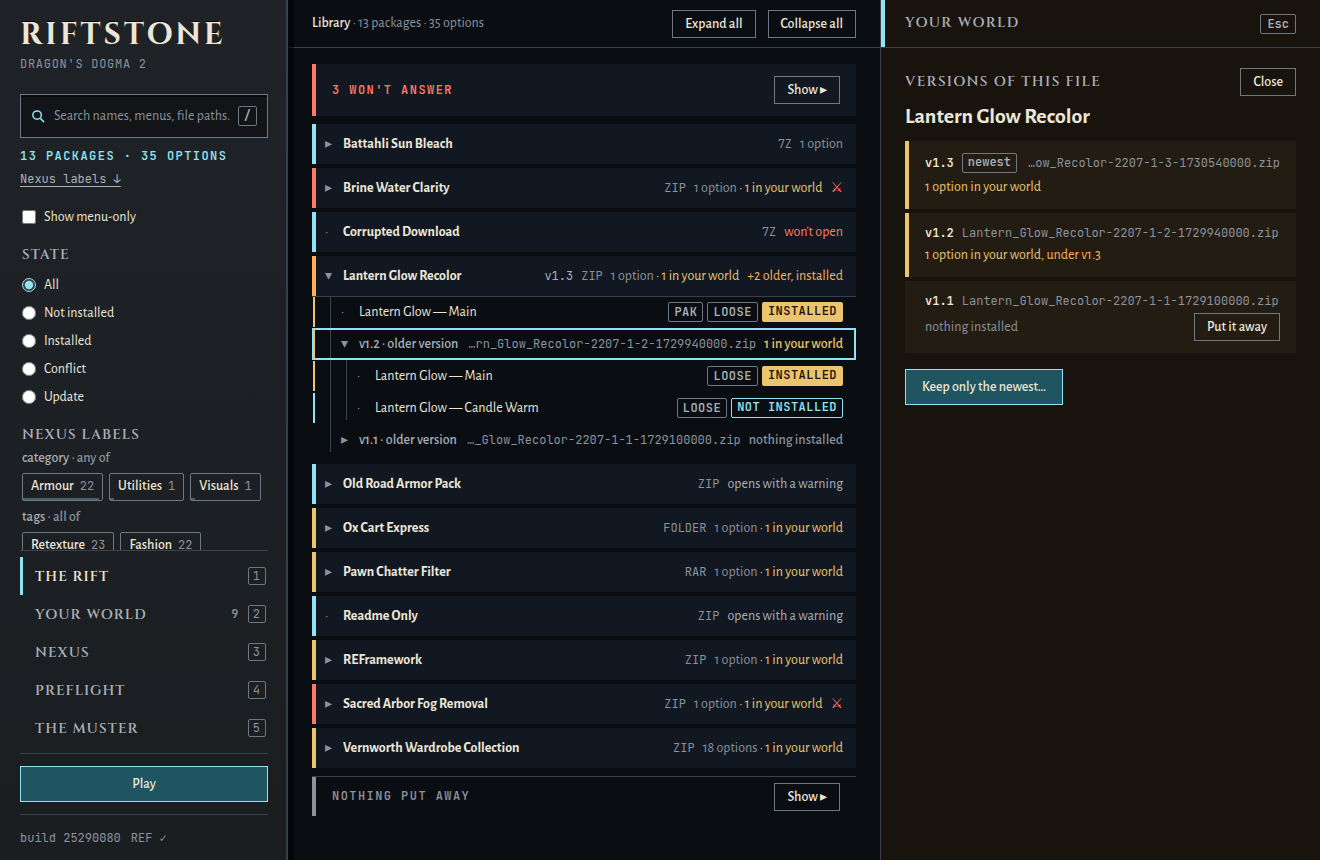
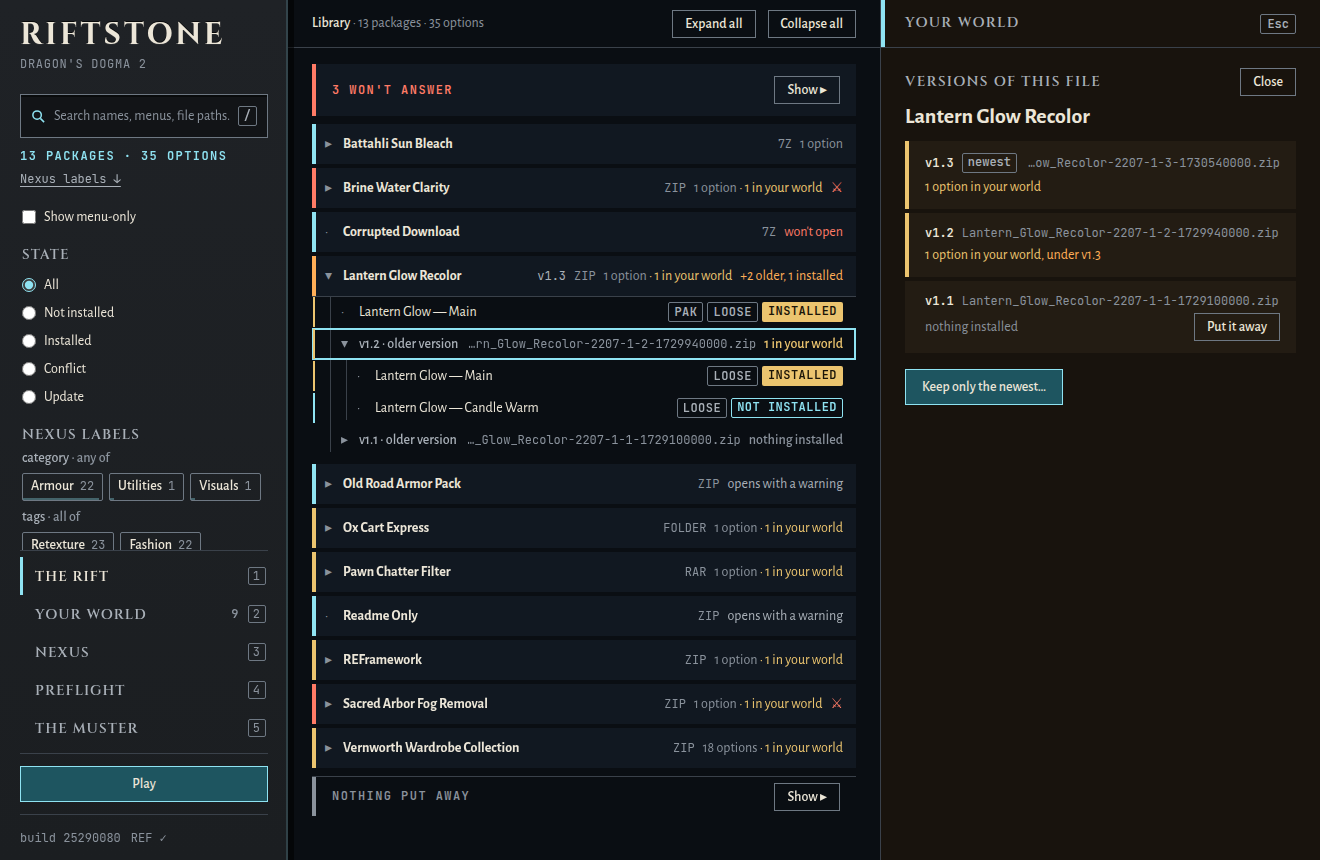
docs(riftstone): the General's round is written down — retry_put_away in the window contract, the family's named-newer order, the kept join, and the versions frame shot again
- WINDOW-CONTRACT: the retry_put_away row and its paragraph; put_away reads the
  family under the turn; the family rule's named-newer order; a check keeps a
  joined group; the version question's two-name floor.
- BUILD-SPEC § v0.5: the review round, each fix and the gates; § rift-nexus
  gains the order.
- CLAUDE.md: the putawayhalf scene, and the question's floor among the known
  limitations.
- README: riftstone-versions.png shot again from the mock (familythree, 1320 ×
  860, 0 page errors, looked at); its alt text reads `+2 older, 1 installed`.

Claude-Session: https://claude.ai/code/session_013U6VVnRmC24Bs8jAfqjsEu

diff --git a/docs/WINDOW-CONTRACT.md b/docs/WINDOW-CONTRACT.md
@@ -647,6 +647,7 @@ fields on the v0.4 Muster types and on `Settings`). The design is #00015 §18.
 | `plan_keep_newest` | `packageId: string` | `KeepNewestPlanView` | What keeping only the newest version of the package's file would uninstall and put away. Any member names the family. Nothing is written. |
 | `keep_newest` | `packageId: string` | `KeepNewestResultView` | Uninstalls the older versions' installs, each by its own uninstall, then puts those versions away; one turn of the deploy lock. `rift://game-changed` when anything was uninstalled, a scan when anything moved. |
 | `put_away` | `packageId: string` | `PutAwayView` | Moves one older version with no installs to the older-versions folder. A scan follows. |
+| `retry_put_away` | `packageId: string` | `PutAwayResultView` | The put-away an install of the package makes, made again (the landing's `Try again`): every member older than it left without installs, the family read under one turn of the deploy lock. Moves what it can; `putAwayFailed` names what would not move. A scan when anything moved. |
 | `get_older_versions` | — | `OlderShelfView` | What the older-versions folder holds. |
 | `bring_back` | `fileName: string` | `BringBackResult` | Moves an item of the older-versions folder back into the mods folder. A scan follows. |
 | `open_older_versions_folder` | — | `void` | Shows the older-versions folder in Explorer, Rust-side; refused before the first put-away makes it. |
@@ -664,8 +665,11 @@ answers is below.
 linked to the same mod and either both links name the same file group (Nexus gives every version
 of one file the same group id; an update check or a download pins it), or one package's last
 check named the other's exact file as its newer file. Packages tied that way, directly or through
-each other, form a family. The newest leads: the latest upload time, then the higher file id; a
-member whose link states neither comes last, by file name. A package with no link, or with an
+each other, form a family. The newest leads. A check that named another member's file as newer is
+the one proof of age the rule holds, so that member comes before the one whose check named it,
+whatever the upload times say (a link pasted as a file URL has a file id and no upload time).
+Among members no check orders: the latest upload time, then the higher file id; a member whose
+link states neither comes last, by file name. A package with no link, or with an
 unpinned link no check named, is in no family. Names and sizes alone never make a family.
 
 **The same option.** An option of one version is the same option as an option of another when
@@ -720,7 +724,10 @@ is outside the library: no scan reads it and no watcher wakes for it. The move:
 
 A move that fails leaves the install standing and the file where it was; `putAwayFailed` says so
 in one sentence that names the files and the reason, and the entry keeps showing the older
-version. A mods folder at the root of a drive has no folder beside it: every put-away there fails
+version. The landing's `Try again` calls `retry_put_away(packageId)` with the installed package:
+the spine works out the set again and answers as the install did, what moved and what would not,
+so a move that worked is never lost to a later one that failed. The window never works out the
+set itself. A mods folder at the root of a drive has no folder beside it: every put-away there fails
 that way. A member newer than the install (an older version installed on purpose) is never put
 away, and an uninstall never puts anything away.
 
@@ -736,7 +743,8 @@ error. An uninstall that fails stops it there: what it uninstalled stays uninsta
 (`rift://game-changed` follows), nothing is put away, and the error says why.
 
 **Put one away.** `put_away(packageId)` moves an older member with no installs to the folder, at
-the player's press, under the deploy lock. It is refused (a `refused` error) for a family's lead,
+the player's press, under the deploy lock; the family is read under it too, so a join taken back
+since the press cannot let the newest version move. It is refused (a `refused` error) for a family's lead,
 a package in no family, or a member with installs, and needs the journal (no game found, a
 damaged journal: that error).
 
@@ -772,8 +780,10 @@ The stone asks; it never joins on its own.
 - another package in the mods folder links to the same mod with a file group (the question's
   file group), and the player has not said no to that group for this package;
 - the file names they hold, compared without their folders and in any case, and leaving out the
-  catalog's own `modinfo.ini` and `screenshot.*`, have at least one in common, and one package's
-  names are all among the other's.
+  catalog's own `modinfo.ini` and `screenshot.*`, have at least two in common (or both packages
+  hold just the one same name), and one package's names are all among the other's. A single
+  name in common beside others never asks: an optional file of the same mod that holds only a
+  `config.json` its main file holds too is no version of it.
 
 When several file groups qualify, it asks about the one with the most names in common, then the
 newest. `ofPackageId` is that group's newest package in the mods folder (its family's lead when it
@@ -784,7 +794,9 @@ holds. A question is a hint, not a proof: the answer is the proof.
 file group and `source: "joined"`; its file id, version and upload time stay as they were (none,
 for a folder). The family rule then reads it unchanged: one entry, THE VERSIONS card, install
 replaces, put away, keep only the newest. A joined version with no upload time and no file id
-comes last in its family, so it never leads. It needs no question: any package whose link names a
+comes last in its family, so it never leads. A later update check keeps the joined group: a pin
+adds the file's id, version and upload time, but a listed file with no group (v1 lists none) or
+another group never parts the join; only *Take it back* does. It needs no question: any package whose link names a
 mod and no file group may be joined to a package of the same mod that names one. Anything else is
 `refused`: either package not in the mods folder, different mods, a package that already names a
 file group, or `ofPackageId` naming none. An update check keeps the joined group unless it pins

diff --git a/docs/BUILD-SPEC.md b/docs/BUILD-SPEC.md
@@ -2506,8 +2506,10 @@ The wire is WINDOW-CONTRACT § v0.5, the design #00015 §18.
 
 `family.rs`, pure: `families(members: &[FamilyMember]) -> Vec<Family>`.
 - A member is a package id with its effective link (`link_for`) and its last check's newer file id.
-- A family is the connected set under the two ties of ruling 2, ordered newest first: upload
-  time, then file id, then file name. A set of one is no family.
+- A family is the connected set under the two ties of ruling 2, ordered newest first. A check
+  that named another member's file as newer puts that member first, before the upload times
+  decide (the General's review, below); then upload time, file id and file name. A set of one
+  is no family.
 - Tested on invented links, including the transitive tie and a mixed pinned and unpinned pair
   that must not fold.
 
@@ -2664,3 +2666,36 @@ against the code they had left, and fixed what those specs found.
   `MoveFileExW`, moved from `downloads.rs` unchanged) compiles nowhere but Windows, and THE
   UNDERCROFT's move has never crossed NTFS. Still open from §18.14: Q18.11 (whether a slot reads as
   being written mid-save) needs the game itself.
+- **The General's review of PR #2** (2026-10-20, at `3df7eb4`): five issues and six nits. Each
+  issue now has a spec that fails at `3df7eb4` and passes with its fix, each seen failing.
+  - **Install… and Uninstall… stood side by side.** `Keep only the newest…` sat between the
+    Install `v-if` and the Uninstall `v-else`, so the `v-else` paired with it. The door now
+    follows the pair, as R18.4 has it (an extra door, never Uninstall's place). The specs now
+    read the doors in order.
+  - **A named-newer pair lost to the upload times.** A link pasted as a file URL has a file id and
+    no upload time, so the older version led its family. `rift-nexus::family` now orders by that
+    proof first: a member goes next only when no member still waiting was named newer than it.
+    It is a pass over the recency order and not a comparator, because `sort_by` must be given a
+    total order and the proof is a relation between two members.
+  - **A late answer drew on whatever card was open.** A keep-newest plan or result, a yes's
+    landing and a no's close all landed on the card open when the answer came, not the card that
+    asked. `useVersions` now numbers each card the pane shows, and every press that awaits the
+    spine takes that number first. A late answer for a card the player left draws nothing there.
+    A finished keep-newest still says so in a toast, and a failed one in ember.
+  - **Try again lost a move that worked.** The window put the older versions away one by one, and
+    a failure on the second dropped the first from the landing. A new spine command,
+    `retry_put_away(packageId)`, makes the install's own put-away again, under one turn, and
+    answers `{ putAway, putAwayFailed }` as the install does. The window no longer works out the
+    set. The mock's `putawayhalf` scene moves v1.2 on the retry while v1.1 still stays.
+  - Nits: the older mark counts the installed ones (`+2 older, 1 installed`; the README frame was
+    shot again and looked at). The privacy sweep keeps a colliding id in the search and sets aside
+    only its hits on lines the repo held at or before `SWEPT_CLEAN`, so a new fixture still
+    counts. `put_away` reads the family under the turn. A check keeps a joined link's group
+    (v1 lists files with none). The version question needs two shared names, or one name that
+    both packages hold alone: measured read-only on the investor's library, the folder ruling 10
+    was built for shares 5 of 5 and still asks. THE MUSTER follows the slot that following
+    opens, not the newest slot by time, so picking it while the newest is written stays following.
+  - New: 4 Rust tests (2 rift-nexus, 1 spine store, 1 spine_versions, and 2 extended), 8 window
+    specs, 3 sweep self-test checks. Gates on the Linux bench: cargo fmt clean, clippy with
+    warnings denied clean, 977 passed, 0 failed, 11 ignored; npm typecheck 0, lint 0 warnings,
+    460/460 in 40 files, format:check clean, build clean.

diff --git a/CLAUDE.md b/CLAUDE.md
@@ -256,6 +256,7 @@ The versions' scenes (v0.5, `src/services/mock/versions.ts`): `family` (Lantern 
 over v1.2, both installed, as v0.4 stacked them), `familyfresh` (v1.3 downloaded, v1.2 installed),
 `familythree` (and a v1.1 with nothing installed), `putaway` (installing v1.3 puts v1.2 away),
 `putawaytaken` (it lands as ` (2)`), `putawayfail` (the move fails after the install committed),
+`putawayhalf` (with v1.1 too, and Try again moves v1.2 while v1.1 still stays),
 `undercroft` (v1.2 already put away), `undercroftempty` and `undercroftnone` (the folder empty, or
 never made). The player's word (#00015 §18.18): `question` (the unpacked Lantern Glow Recolor folder,
 linked by mod id, beside the pinned v1.3, and the stone asks), `questioninstalled`, `questionjoined`,
@@ -379,7 +380,8 @@ links back too: turn the switch on again after it (WINDOW-CONTRACT § v0.3 The o
   and pinned to one file group (an update check or a download pins a link), or a check that named
   the other's file as newer, or by the player's word (ruling 10). A package linked by name alone
   joins a family only when the player says so; the stone asks only when one package's file names
-  are all among the other's, so a version that renamed or dropped a file is never asked about
+  are all among the other's and they share two or more (or each holds just the one same name),
+  so a version that renamed or dropped a file is never asked about
   (the option detail's *This is a version of…* joins it all the same). An unlinked package joins
   nothing: link it first. Without a join, its install stacks over another version's as in v0.4,
   and both keep an entry. A modder who uploads a

diff --git a/README.md b/README.md
@@ -26,7 +26,7 @@ The Riftstone is a Windows desktop mod manager for **Dragon's Dogma 2**. Its lib
 </p>
 
 <p>
-  <img src="docs/images/riftstone-versions.png" width="49%" alt="One entry per file: Lantern Glow Recolor v1.3 on an amber rail, +2 older, installed. Inside it, v1.2 open to its own two options and v1.1 with nothing installed. Beside it, VERSIONS OF THIS FILE lists all three, v1.2 installed under v1.3, with Put it away on v1.1 and Keep only the newest.">
+  <img src="docs/images/riftstone-versions.png" width="49%" alt="One entry per file: Lantern Glow Recolor v1.3 on an amber rail, +2 older, 1 installed. Inside it, v1.2 open to its own two options and v1.1 with nothing installed. Beside it, VERSIONS OF THIS FILE lists all three, v1.2 installed under v1.3, with Put it away on v1.1 and Keep only the newest.">
   <img src="docs/images/riftstone-put-away.png" width="49%" alt="The newer version installed in the older one's place: THE CROSSING carves IN YOUR WORLD, v1.2 is put away in mods (older versions) with Bring it back, the foot of the Rift carves 1 PUT AWAY, and a toast says Lantern Glow Recolor v1.3 is in your world, in v1.2's place.">
 </p>
 
